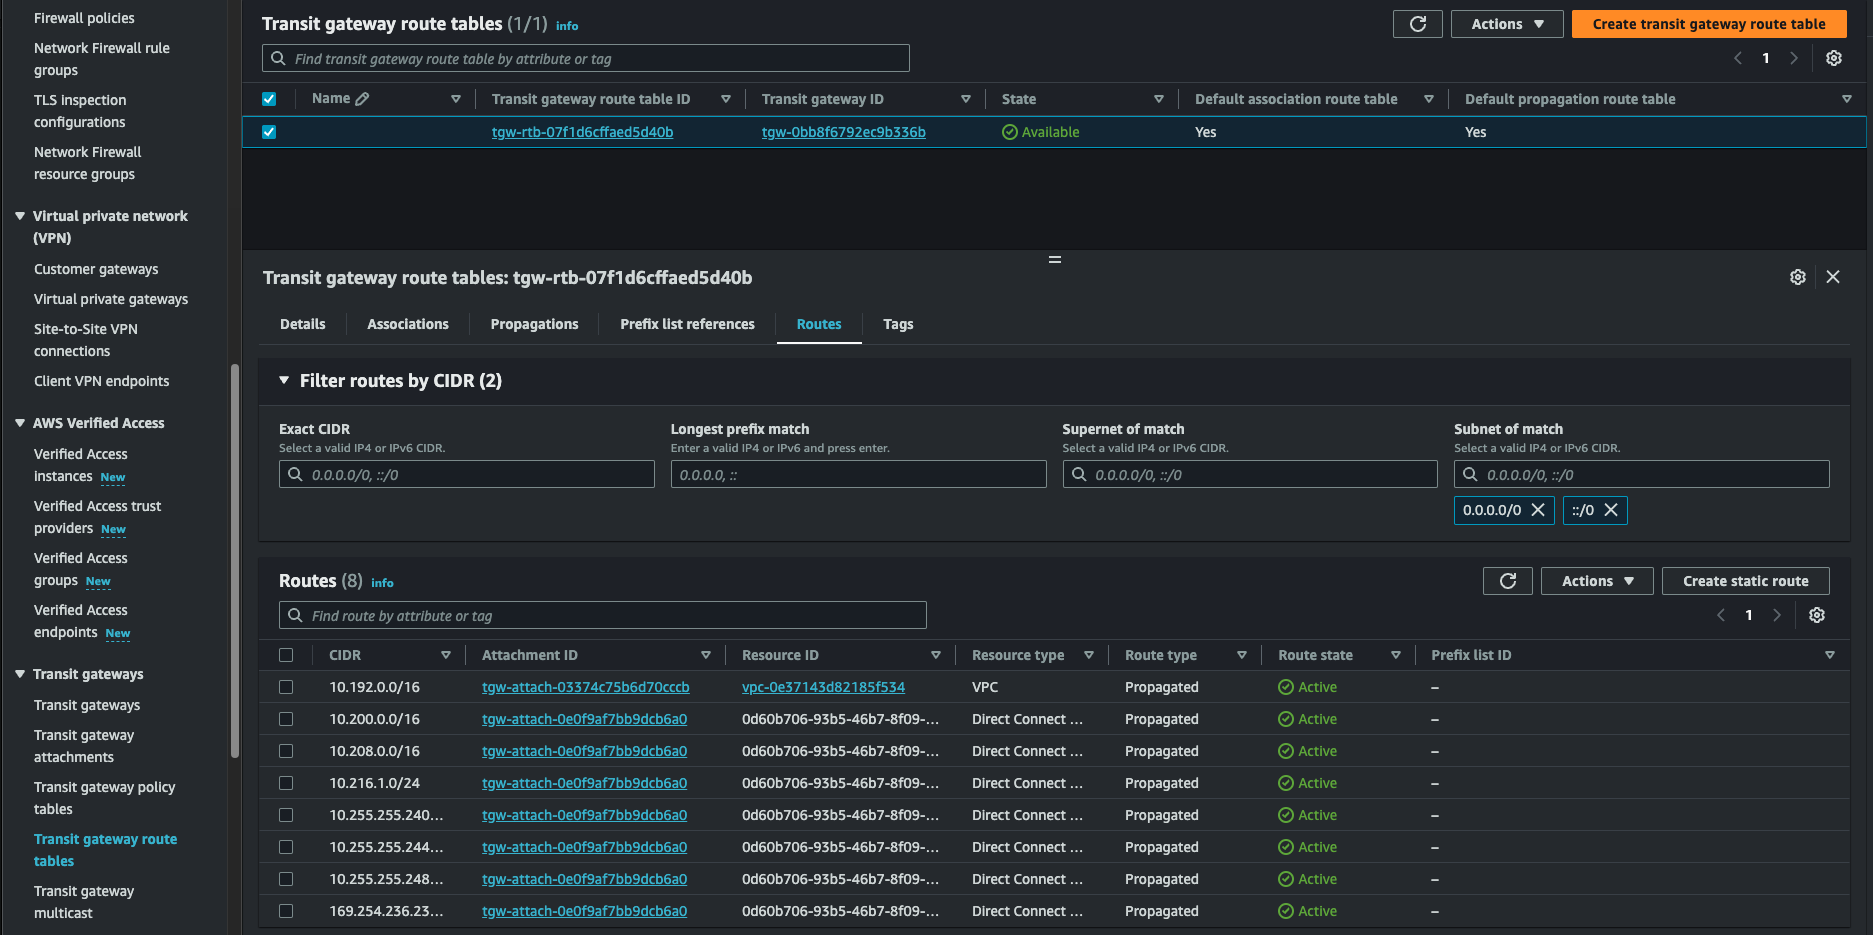
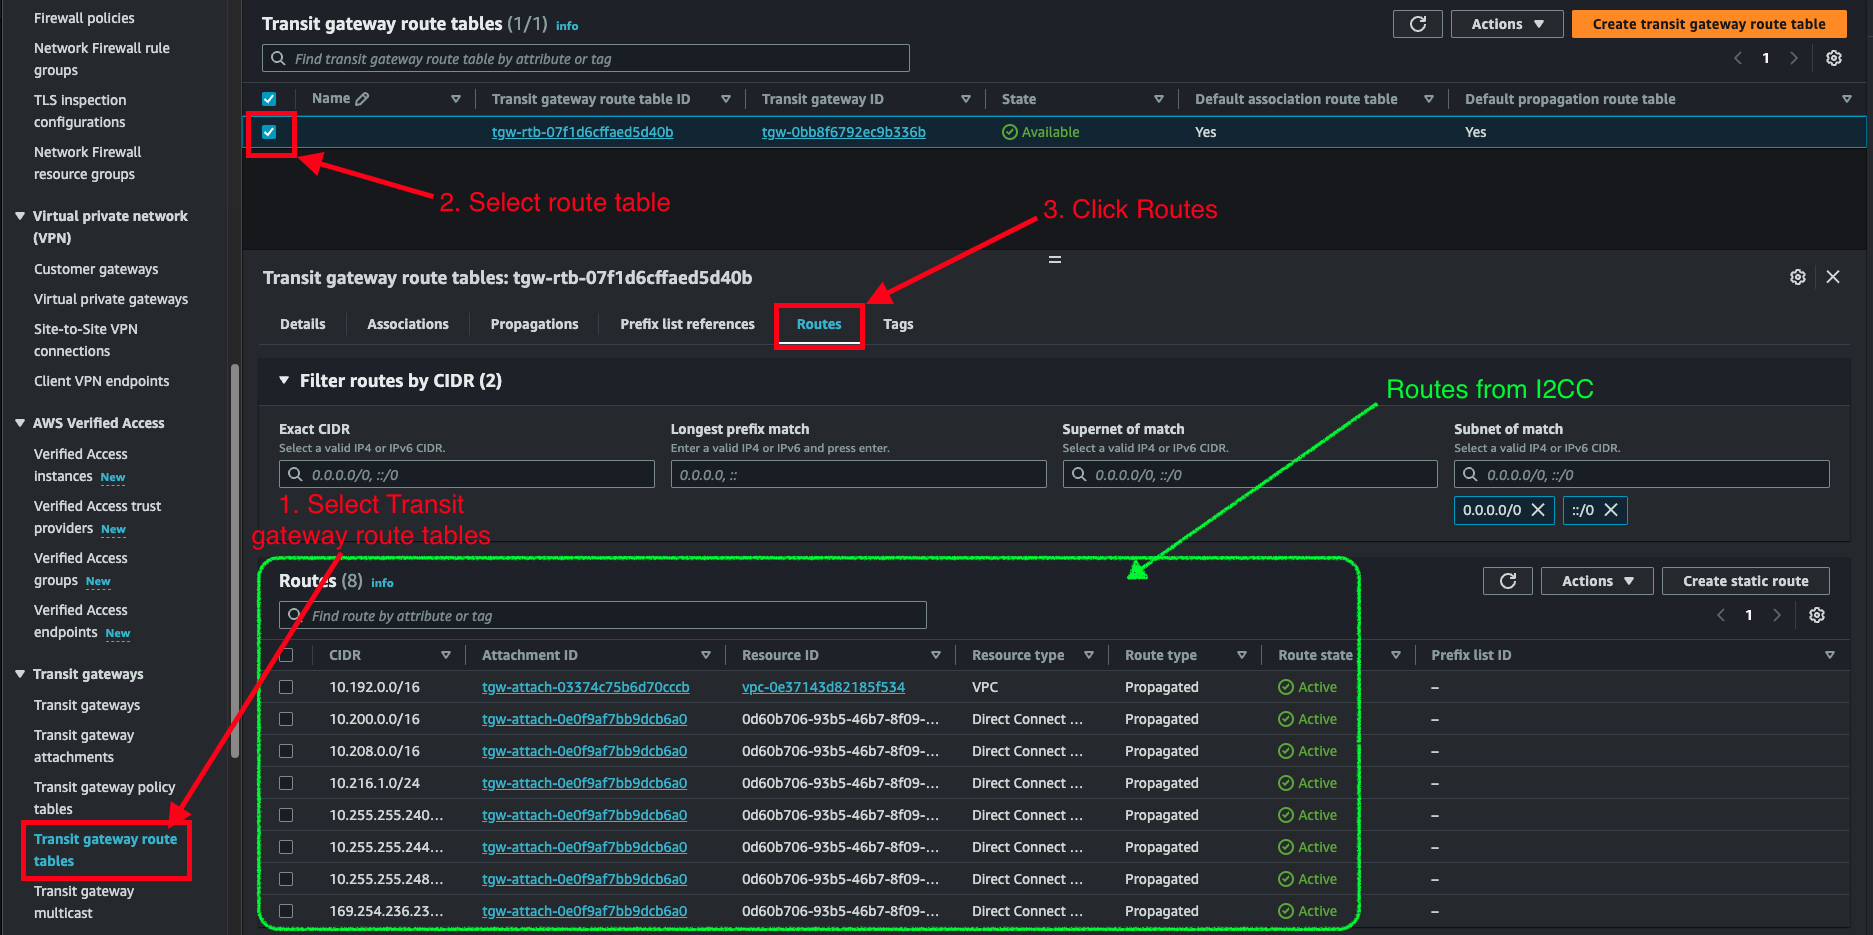
Updated documentation

diff --git a/README.md b/README.md
@@ -2,9 +2,6 @@
 
 **_Networking to and inside the Cloud Service Providers_**
 
->[!CAUTION]
->_This repository is still a work in progress._
-
 ## Workshop Objectives
 
 This full day workshop will lead you through a deep dive into cloud networking. As a participant, you will leave this workshop with knowledge of the necessary networking components required to operate a functional cloud environment with dedicated cloud connectivity. The workshop combines lectures with labs to provide hands-on experience with the course concepts.
@@ -25,14 +22,15 @@ Some of the things you will learn during the workshop include
 > - Gather and Introductions (30 minutes)
 > - Lesson: Overview of Internet2 Cloud Connect (20 minutes)
 > - Lesson: Introduction to Insight Console (20 minutes)
-> - Lab 1: Using Insight Console (10 minutes)
+> - [Lab 1: Internet2 Insight Console](lab1.md) (10 minutes)
 > - Lesson: Insight Console use cases (10 minutes)
-
-**Break** 09:30 - 10:00
-
-> - Lesson: Lab overview (15 minutes)
-> - Lab 2: Setting up your lab environment (30 minutes)
+>
+> **Break** 09:30 - 10:00 (30 minutes)
+>
 > - Lesson: Networking in the Cloud(s) (45 minutes)
+> - [Lab 2: Using GitHub Codespaces](lab2.md) (15 minutes)
+> - Lesson: Lab overview (10 minutes)
+> - [Lab 3: Authenticating and Configure CLI tools](lab3.md) (10 - 40 minutes)
 
 **Lunch** 11:30 - 13:00
 
@@ -40,17 +38,21 @@ Some of the things you will learn during the workshop include
 
 **Afternoon** 13:00 - 16:30
 
-> - Lesson: Networking in the Cloud(s) continued...
-> - Lab 3: ...
-
-**Break** 14:30-15:00
-
-> - Labs 4-7
+> - [Lab 4: Infrastructure as Code deployment of CSP lab environments](lab4.md) (10 minutes)
+> - Lesson: Networking Components for each CSP (20 minutes)
+> - Demo: Building Insight Console Connections (15 minutes)
+> - [Lab 5: Building Dedicated Connections to the Cloud](lab5.md) (60 minutes)
+>
+> **Break** 14:30-15:00
+>
+> - [Lab 6: Testing and verifying routing](lab6.md) (20 minutes)
+> - [Lab 7: Verifying Routing Tables with the CSPs _(time permitting)_](lab7.md) (20 minutes)
+> - [Lab 8: Cleaning up (avoiding large bills)](lab8.md) (30 minutes)
 > - Close-out
 
 ## Slides
 
-You can find the [slide deck for the lectures here](slides/cloud_networking_101-20241209.pptx)
+You can find the [slide deck for the lectures here](slides/cloud_networking_101-20241209.pdf)
 
 ## Labs
 
@@ -111,21 +113,36 @@ As you build out your Free Tier accounts keep in mind that the terraform code fo
 
 ---
 
-## TODO
+#### To-do
 
-- [ ] Finish Lab breakouts and documentation
-- [ ] Export slide deck to PDF
-- [ ] Improve diagrams
-- [ ] [Maybe] Rework code to update SSH config file when public IP changes
-- [ ] [Maybe] Breakout slides for each lesson
-- [ ] [Future] Lab solution branches
-- [ ] [Future] IPv6 addressing
-- [ ] [Future] Refactor code to make it easier to switch regions
-- [ ] [Future] Migrate code to OpenTofu
-- [ ] [Future] Develop 2/3/400 level workshop that builds on this workshop
+- [ ] Finish Lab 7
+  - [ ] Azure route table
+  - [ ] Google Cloud routing
+- [ ] Finish slides
+  - [ ] export and publish slides
+- [ ] Improve lab environment diagrams
+  - [X] AWS
+  - [ ] Azure
+  - [X] Google Cloud
+  - [ ] Oracle Cloud
+- [X] Finish Agenda
+- [ ] Final lab run through
+- [ ] Publish final prebuilt
 
----
+#### Future
 
-## Notes
+- [ ] Rework code to update SSH config file when public IP changes
+- [ ] Get budgets working for
+  - [ ] Google Cloud
+  - [ ] Oracle Cloud
+  - [ ] Azure
+- [ ] Change base Dockerfile image to reduce size of prebuilt
+- [ ] Further optimize Devcontainer environment
+- [ ] Breakout slides for each lesson
+- [ ] Branches with IaC for Lab solutions?
+- [ ] IPv6 addressing
+- [ ] Refactor code to make it easier to switch regions
+- [ ] Migrate code to OpenTofu
+- [ ] Develop 2/3/400 level workshop that builds on this workshop
 
-**Google:** Before the workshop it would be helpful if you have your account setup, billing setup, a project for us to build into and Compute API enabled for the project. Send directions for these step to the participants ahead of the workshop.
+## :rocket: [Take me to the labs!](lab/README.md)

diff --git a/lab/lab7.md b/lab/lab7.md
@@ -1,24 +1,37 @@
-# Lab 7: Bonus Lab - Verifying Routing Tables with the CSPs
+# Lab 7: Verifying Routing Tables with the CSPs
 
 In this lab we will look at some of the network tools that the CSPs provide to help look at the routing tables and which prefixes are seen by our i2lab environment with that provider.
+
+## Table of Contents
+
+- [AWS Routing](#aws-routing)
+- [Azure Routing](#azure-routing)
+- [Google Cloud Routing](#google-cloud-routing)
+- [Oracle Cloud Routing](#oracle-cloud-routing)
 
 ---
 
 ## AWS Routing
 
-This one is the least straight forward. There is the "cloud native" way to do prefix monitoring and BGP peer state.
-
-This [blog](https://aws.amazon.com/blogs/networking-and-content-delivery/monitor-bgp-status-on-aws-direct-connect-vifs-and-track-prefix-count-advertised-over-transit-vif/) has a great walk-through on alerting and monitoring BGP status and prefix counts. If you have time and would like to try this walk-through free free but make sure to leave enough time for [Lab 8](lab8.md) where we will destroy the lab environments and clean-up resources to avoid paying unnecessary bills.
-
-### Transit gateway route table
+### Transit gateway route table view
 
 Inside the AWS Console one place that you can check to see which routes are being propagated is under the Transit gateway routing table.
 
-To view the Transit gateway routing table
+To view the Transit gateway routing table: Navigate to VPC and find Transit Gateway service in the sidebar menu.
+
+1. Select **Transit gateway route tables**.
+2. Select the **route table**.
+3. Click **routes**.
+
+You should notice the routes that are propagated from the DXGW to the TGW route table match the networks from the other cloud providers.
 
 ![Transit Gateway Routes](files/aws_tgw_routes.png)
 
+### _(Optional) Cloud Native way_
 
+This one is the least straight forward. There is the "cloud native" way to do prefix monitoring and BGP peer state alerting.
+
+This [blog](https://aws.amazon.com/blogs/networking-and-content-delivery/monitor-bgp-status-on-aws-direct-connect-vifs-and-track-prefix-count-advertised-over-transit-vif/) has a great walk-through on alerting and monitoring BGP status and prefix counts. If you have time and would like to try this walk-through, on your own, feel free. Make sure to leave enough time for [Lab 8](lab8.md) where we will destroy the lab environments and clean-up resources to avoid paying unnecessary bills.
 
 ---
 
@@ -32,6 +45,8 @@ How to view the ER routing table:
 
 1. Navigate to the ER service....
 ![View ER Route Table](files/az_er_route_table.png)
+
+---
 
 ## Google Cloud Routing
 

diff --git a/lab/README.md b/lab/README.md
@@ -2,7 +2,7 @@
 
 The labs leverage GitHub Codespaces with Terraform plans to build out basic environments for each CSP so we aren't spending out time together doing click-ops provision of a base environment. By leveraging GitHub Codespaces we avoid spending time installing tools, polluting your laptop, and hopefully avoid the dreaded "works on my machine".
 
-[Lab 1: Internet2 Insight Console](lab1.md)
+[Lab 1: Setup Internet2 Insight Console](lab1.md)
 
 [Lab 2: Using GitHub Codespaces](lab2.md)
 
